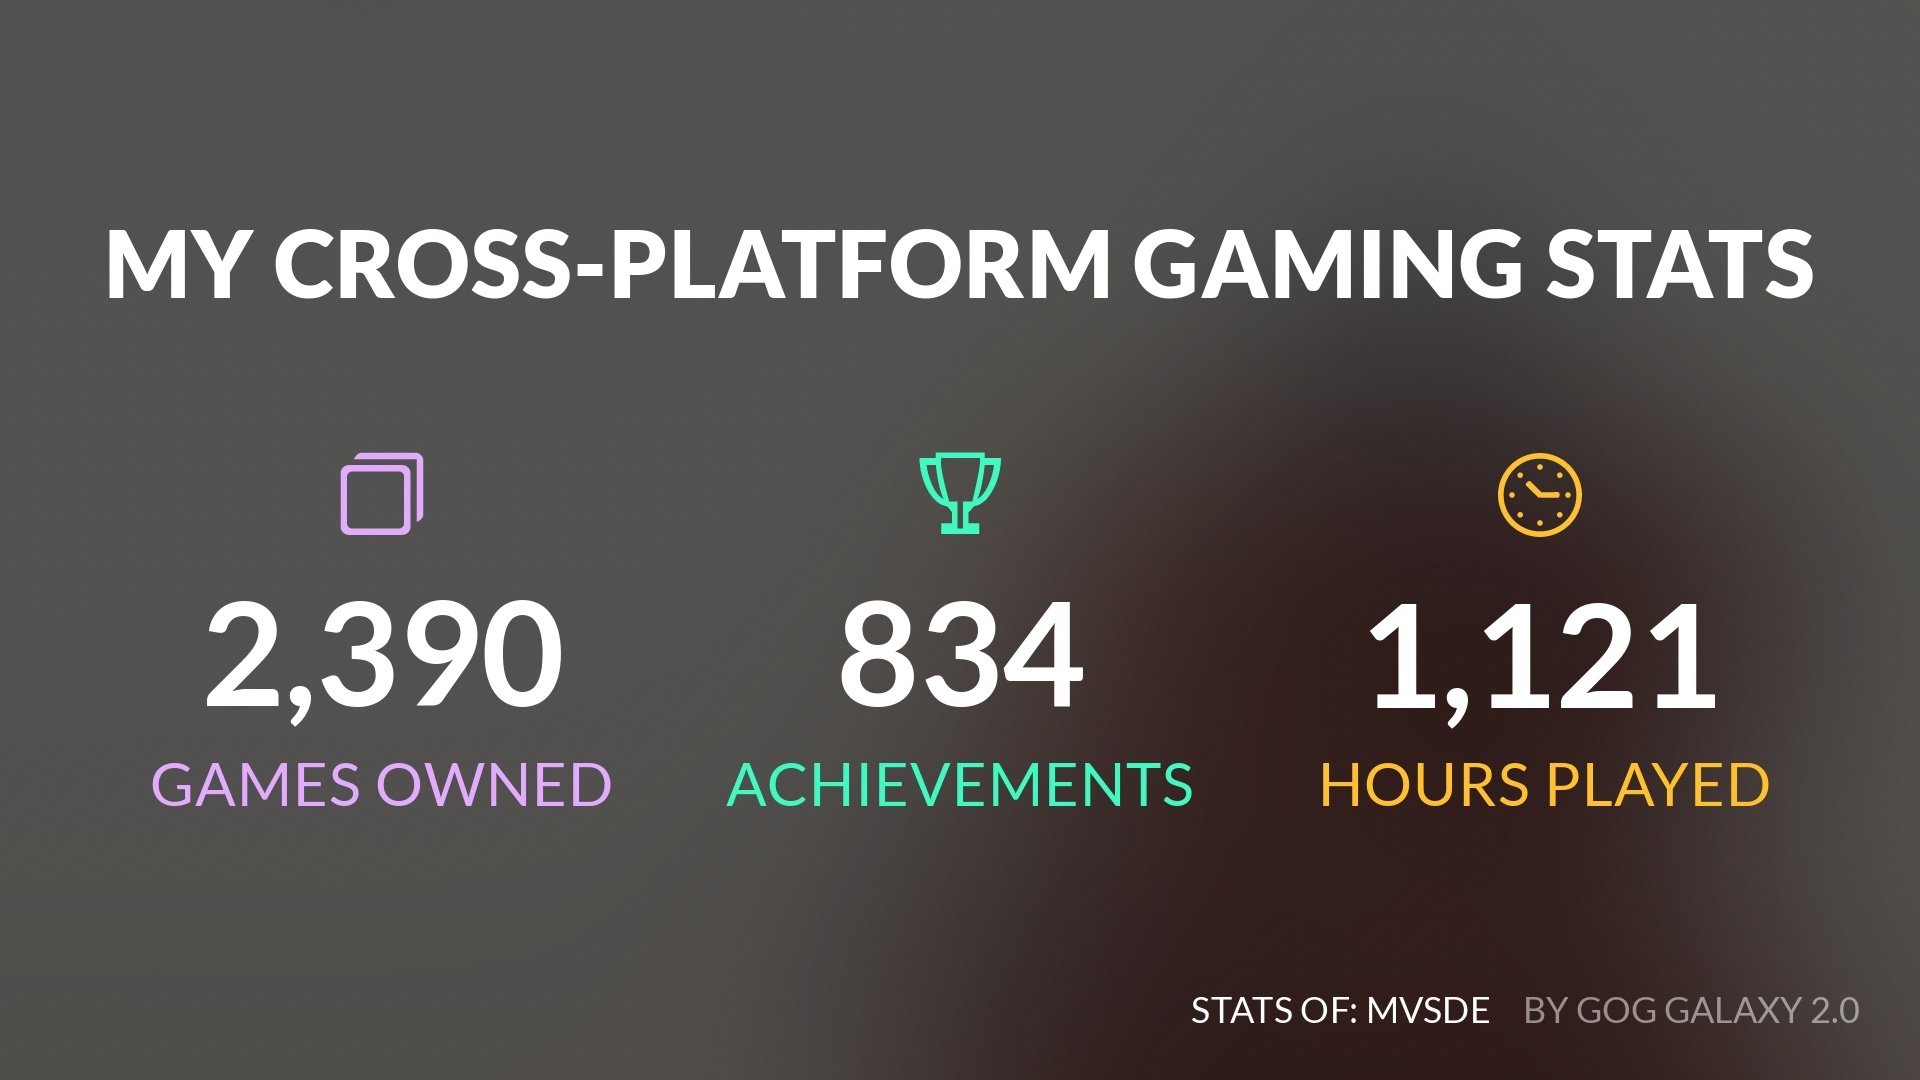
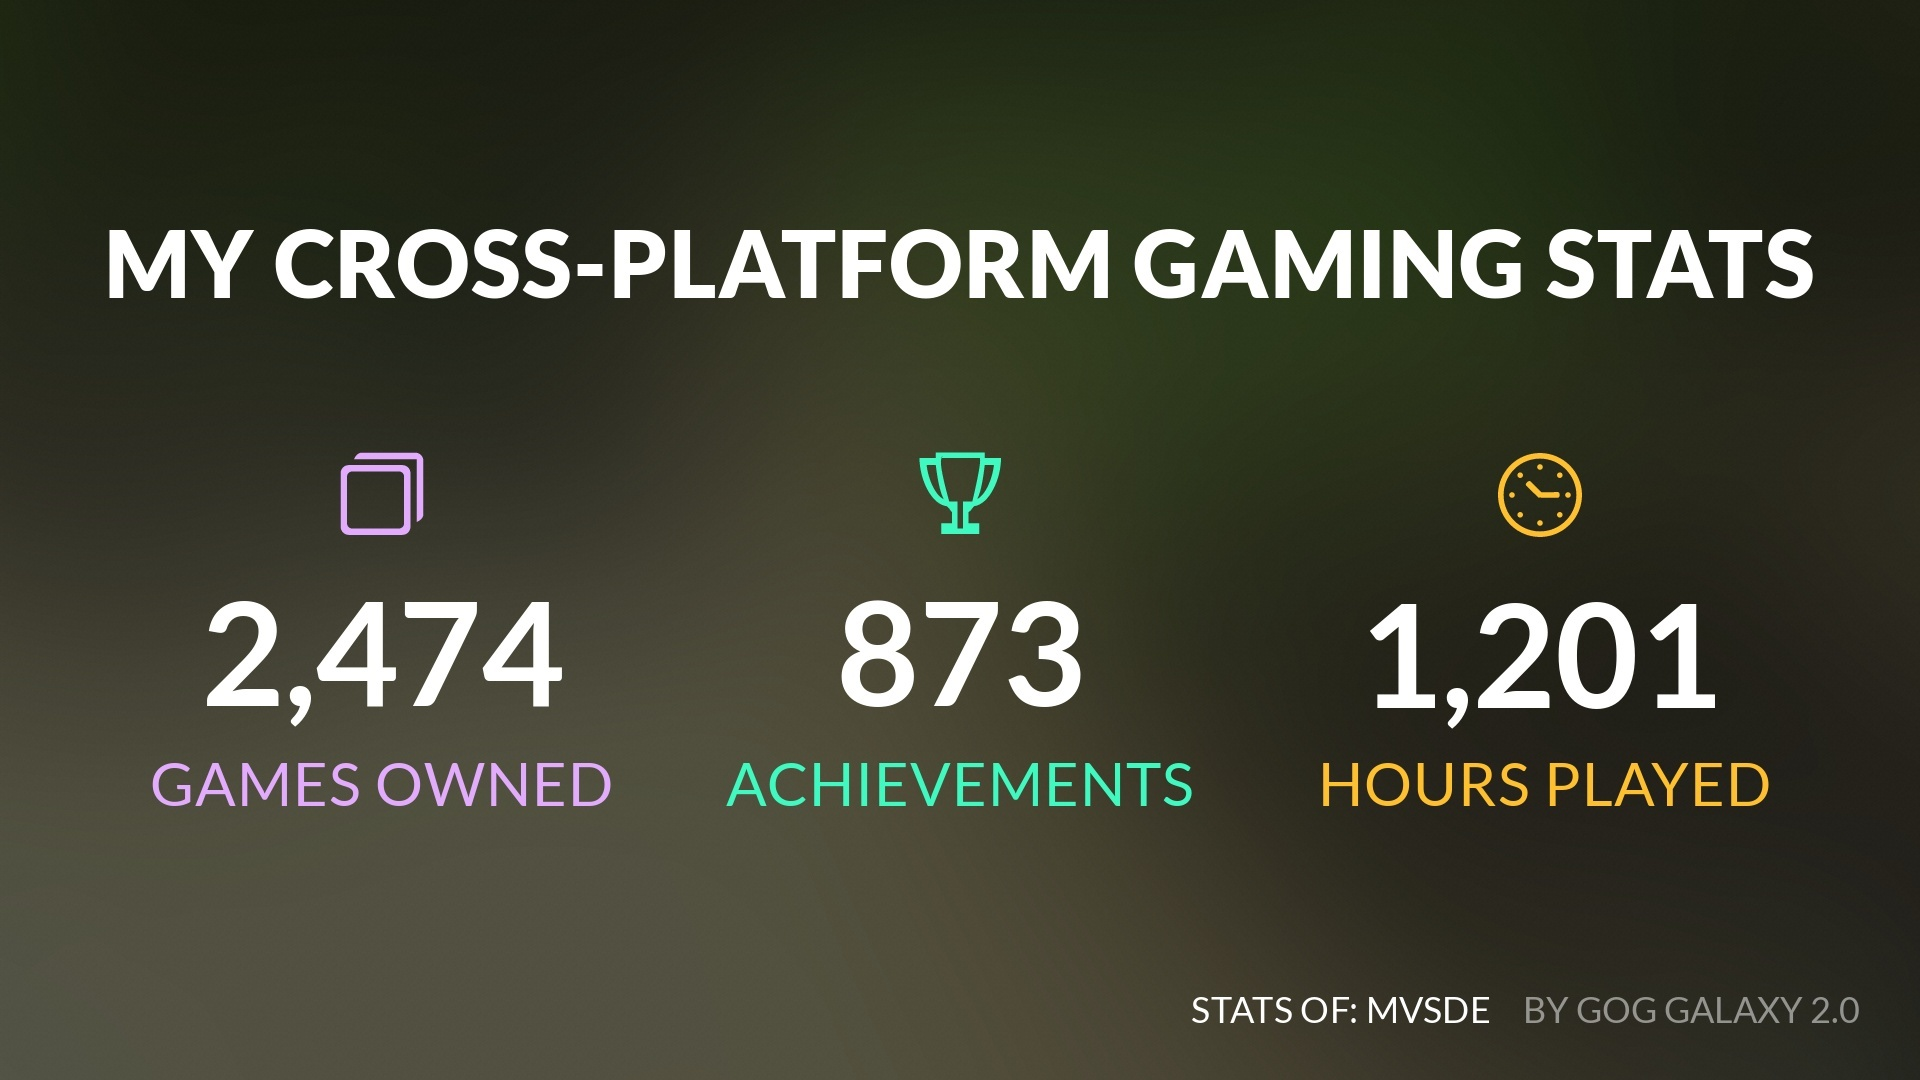
feat(games): Update GOG statistics

diff --git a/content/games.md b/content/games.md
@@ -1,10 +1,10 @@
 ---
 id: 5a6dd264-835e-44dc-9899-653d44d130bd
 title: Games
-description: I own this ginormous video game collection I rarely touch. Which is commonly known as the Pile of Shame.
+description: I own this ginormous video game collection I rarely touch. Which is commonly known as the “Pile of Shame”.
 hero:
   image: content/games.jpg
-  alt: "GOG GALAXY statistics: 2390 games owned, 834 achievements, 1121 hours played."
+  alt: "GOG GALAXY statistics: 2474 games owned, 873 achievements, 1201 hours played."
 ---
 
-I own this ginormous video game collection I rarely touch, which is commonly known as the [Pile of Shame](https://www.urbandictionary.com/define.php?term=Pile%20of%20shame)™. You can follow me on [Steam](https://steamcommunity.com/id/mvsde/) or [GOG](https://www.gog.com/u/mvsde), the only two platforms with usable public profile systems.
+I own this ginormous video game collection I rarely touch, which is commonly known as the “[Pile of Shame](https://www.urbandictionary.com/define.php?term=Pile%20of%20shame)”. You can follow me on [Steam](https://steamcommunity.com/id/mvsde/) or [GOG](https://www.gog.com/u/mvsde), the only two platforms with usable public profile systems.
